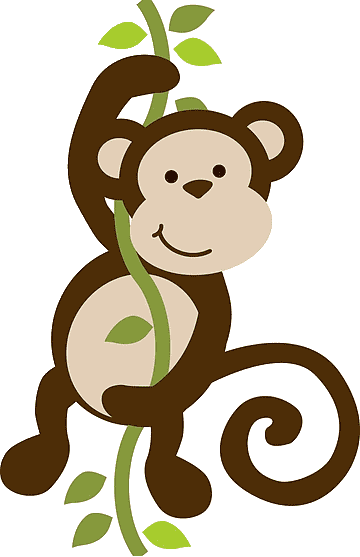
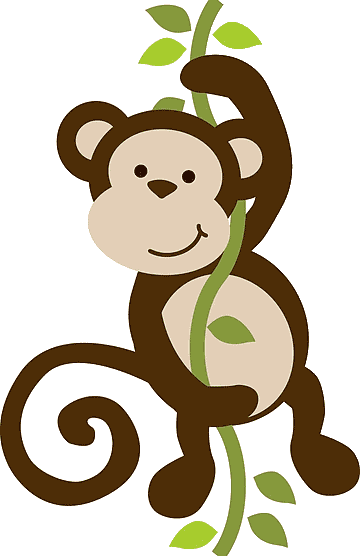
chat page is 70% done

diff --git a/public/js/script.js b/public/js/script.js
@@ -1,8 +1,18 @@
-async function sendMessage() {
-  const userInput = document.getElementById('userInput').value;
+const userInput = document.getElementById('userInput');
+const chatLog = document.getElementById('chatLog');
 
-  const response = await generateResponse(userInput);
-  displayResponse(response);
+async function sendMessage() {
+  userInputValue = userInput.value;
+  // console.log(userInputValue);
+  userInput.value = '';
+
+  var p = document.createElement('p');
+  p.innerHTML = "<b>YOU:</b><br>" + userInputValue;
+  p.classList = 'sent';
+  chatLog.appendChild(p);
+
+  const response = await generateResponse(userInputValue);
+  displayResponse(await response);
 }
 
 async function generateResponse(inputText) {
@@ -10,7 +20,7 @@ async function generateResponse(inputText) {
       method: 'POST',
       headers: {
           'Content-Type': 'application/json',
-          'Authorization': 'Bearer YOUR_API_KEY' // Substitua YOUR_API_KEY pelo seu próprio token de autenticação
+          // 'Authorization': 'Bearer YOUR_API_KEY' // Substitua YOUR_API_KEY pelo seu próprio token de autenticação
       },
       body: JSON.stringify({
           inputs: inputText
@@ -18,12 +28,12 @@ async function generateResponse(inputText) {
   });
 
   const responseData = await response.json();
-  return responseData.generated_text;
+  return responseData[0].generated_text;
 }
 
 function displayResponse(response) {
-  const chatLog = document.getElementById('chatLog');
-  const responseElement = document.createElement('p');
-  responseElement.textContent = response;
-  chatLog.appendChild(responseElement);
+  var p = document.createElement('p');
+  p.innerHTML = "<b>LUNA:</b><br>" + response;
+  p.classList = 'received';
+  chatLog.appendChild(p);
 }

diff --git a/public/chat.html b/public/chat.html
@@ -11,7 +11,7 @@
     <link href="https://fonts.googleapis.com/css2?family=Roboto:wght@300;400;700&display=swap" rel="stylesheet">    
     <title>Chat | MONKEY</title>
 </head>
-<body style="overflow:hidden;">
+<body style="overflow-x: hidden;">
     <header class="position-fixed">
         <nav class="header navbar-wrapper">
             <a class="title" href="./index.html">Monkey</a>
@@ -21,15 +21,15 @@
         </nav>
     </header>
     <main>
-        <section class="container chat flex-column full-width">
-            <div id="chatLog" class="m-1"></div>
-            <div class="chat full-width m-1">
+        <section class="container chat-section flex-column">
+            <div id="chatLog" class="chat-log"></div>
+            <div class="chat m-1">
                 <textarea id="userInput" class="half-width chat-input m-1" placeholder="Digite sua mensagem..."></textarea>
                 <button class="btn-zero" onclick="sendMessage()">Enviar</button>
             </div>
         </section>
 
-        <img width="300" height="500" style="position: absolute; top: 0; right: -2.5em" src="./images/macaco.png">
+        <img width="300" height="500" style="position: absolute; top: 0; left: -2.5em" src="./images/macaco.png">
     </main>
 </body>
 <script type="text/javascript" src="./js/script.js"></script>

diff --git a/public/css/style.css b/public/css/style.css
@@ -160,7 +160,7 @@ nav {
     box-shadow: 0 2px 4px 0 rgba(0,0,0,.2);
 }
 
-.team, .chat {
+.team, .chat-section {
     background-color: #dbe89b;
     text-align: justify;
 }
@@ -184,7 +184,7 @@ nav {
 }
 
 .card img {
-    border: 0.5em solid rgb(134, 153, 60);
+    border: 0.5em solid #86993c;
     width: 8em;
     height: 8em;
     border-radius: 2em;
@@ -217,13 +217,33 @@ nav {
 
 .chat {
     display: flex;
-    flex-direction: row;
+    flex-direction: column;
     align-items: center;
     justify-content: center;
     margin: 0;
-    margin-right: 10em;
 }
 
+.chat-log {
+    align-self: center;
+    width: 50vw;
+    font-weight: normal;
+    max-height: 65vh;
+    overflow: hidden auto;
+}
+
+.chat-log .sent {
+    background-color: #86993c;
+    text-align: right;
+    color: #fafafa;
+    padding: 0.5em;
+}
+
+.chat-log .received {
+    background-color: #ffffff;
+    text-align: left;
+    color: #493d3f;
+    padding: 0.5em;
+}
 
 .chat-input {
     outline: none;
@@ -233,6 +253,7 @@ nav {
     padding: 1em;
     resize: none; 
     border-color: #dbe89b;
+    width: 50vw;
 }
 
 .chat-input:focus {
